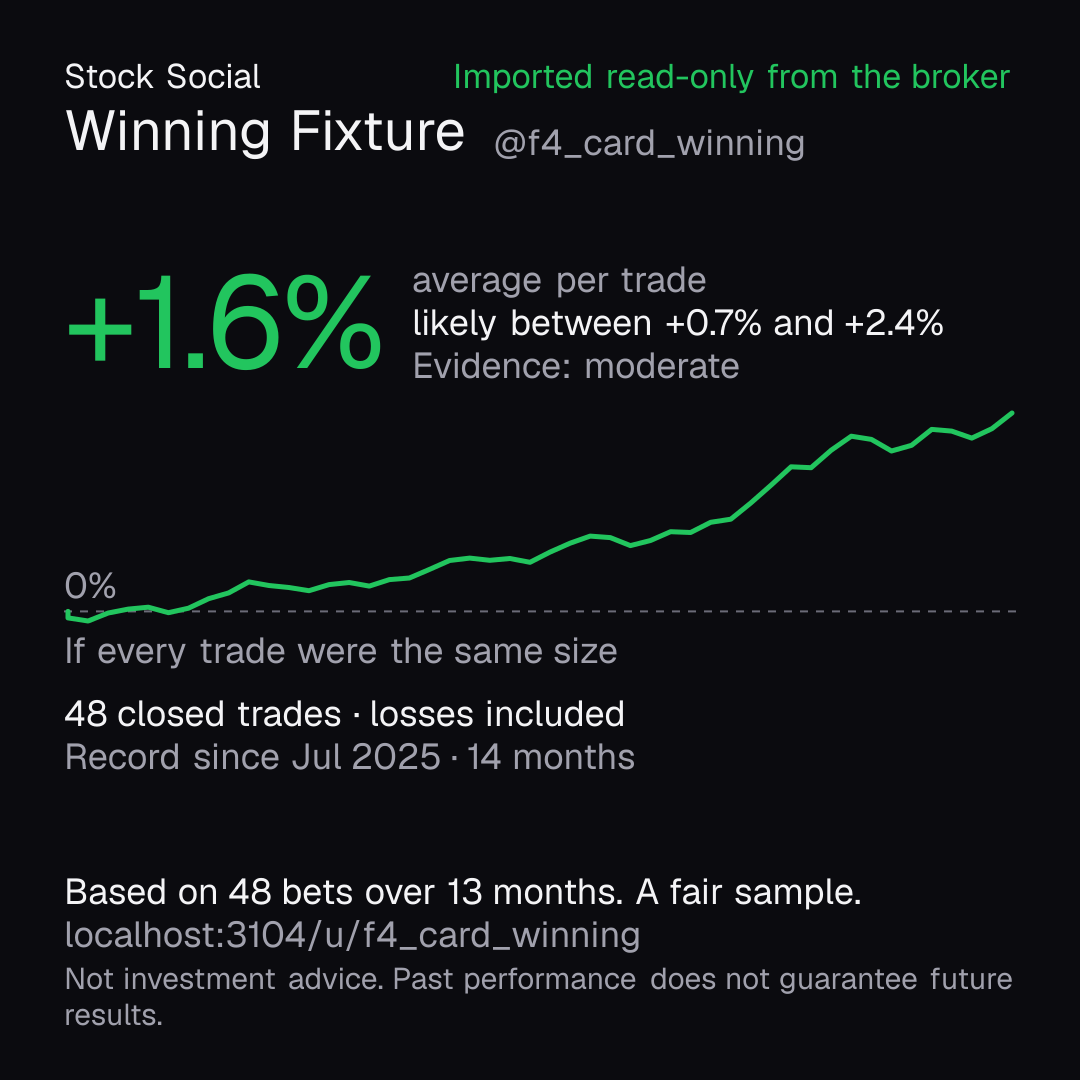
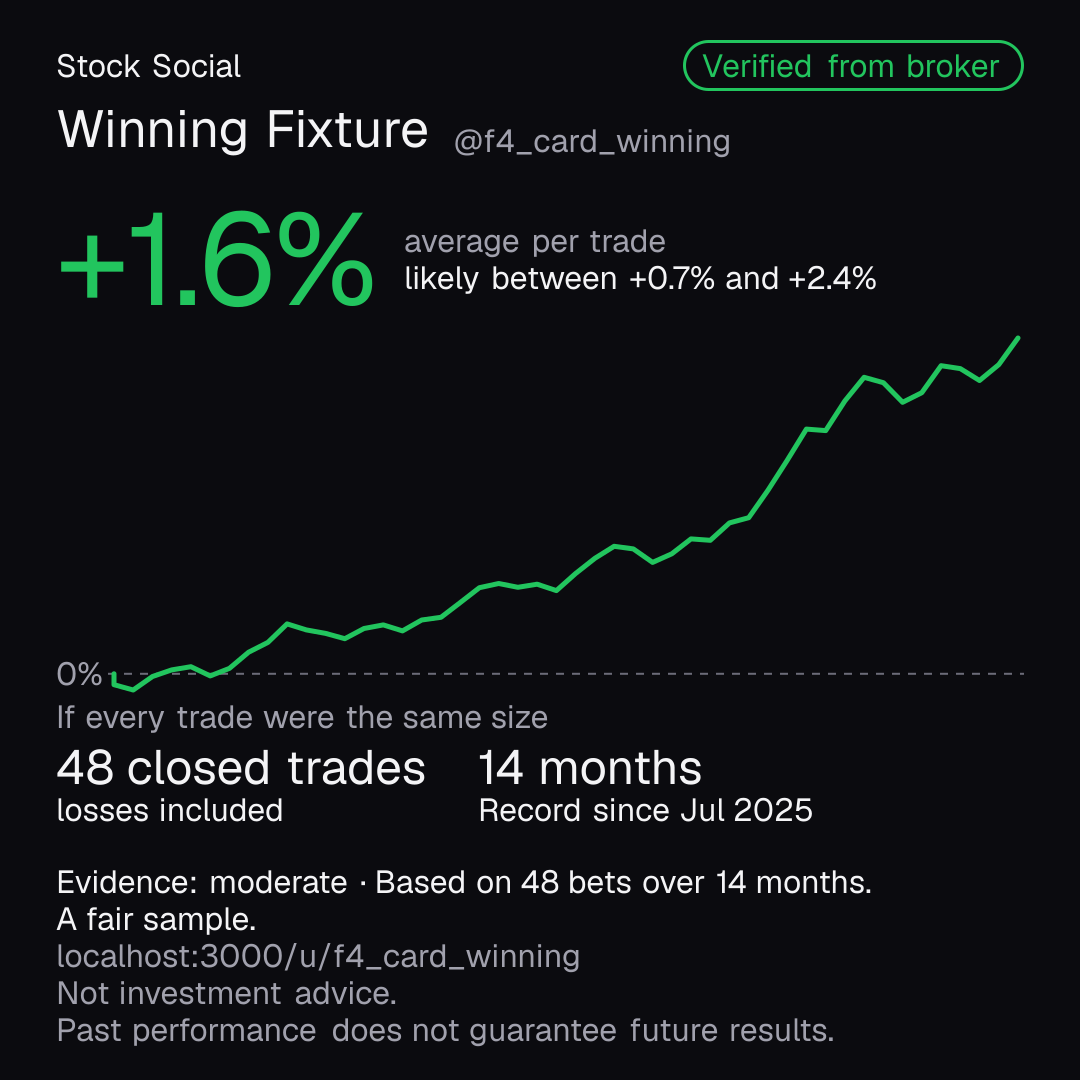
F-4 round 2: committee round 1 log and re-rendered screenshots (14 records)
Claude-Session: https://claude.ai/code/session_013YPFFnrKfniWPmfphtK7Ff

diff --git a/docs/features/logs/F-4/committee-round-1.md b/docs/features/logs/F-4/committee-round-1.md
@@ -1,0 +1,80 @@
+# F-4 · Committee round 1 · verdicts and the engineer's round 2
+
+Date: 2026-10-26. Build reviewed: `build-engineer.md` (commits f146057..ff41cfd). Both members returned the build:
+the business lead (**not passed**) and the UX lead (**not passed**). Their demands reached the engineer through the
+coordinator as one merged list (below, items 1 to 10, with the items held for the owner, A to C); this file
+summarises each demand faithfully and records what round 2 did. The coordinator pastes the members' verdicts into
+the PR. Nothing here changes a decision in the feature file.
+
+## Verdicts
+
+- **Business lead: not passed.** **UX lead: not passed.**
+- The engineer received the two verdicts as one merged list of demands from the coordinator, without the members'
+  own wording or which member raised which item, so this file does not attribute the demands; the coordinator adds
+  the verdict texts to the PR. In short: the card did not lead with what the owner chose (chart, count, period); it
+  missed the planned 10 CSS px floor (round 1 loosened it to 9.5 at 375 px); its two durations, its labels per size
+  and its alt text disagreed; "New record" was a grey suffix; the 0% label could sit under the line; the disclaimer
+  and trust line left orphans; ten states had never been rendered; the share picture printed the request's Host
+  header; the link-preview text printed "% win rate".
+
+## Demands and what round 2 did
+
+| # | Demand (summary) | Done | What changed, and the test |
+|---|---|---|---|
+| 1 | One duration per card: the period and the trust line give the same months/years from one span function (same end, same rounding); test the fixtures and spans of 29, 30, 31, 364, 365 days and a ~60-day demo-like record. | Done | `lib/confidence.ts`: `spanBetween(first entry, now)` (whole days, whole calendar months in UTC, years = months / 12) and `spanText(span, unit)`; the unit is the owner's per tier (thin days, moderate months, strong years; too early months). `recordCard` computes one span and both lines print `spanText` of it, so the period reads "Record since Aug 2026 · 61 days" beside "…over 61 days." Test R1 (11 records incl. 29/30/31/364/365/400/800 days and the demo-like 60-day record). Note for the owner: in the thin and strong tiers the period's unit follows the trust line (days / years), where AC1's example shows months. |
+| 2 | Readability floor 10 CSS px at 343 px wide for every element (0% label, body text); restore 10; reach it by deleting, not shrinking: evidence label into the trust line's row; the unfurl disclaimer may wrap. | Done | Every font in `CARD_LAYOUT` ≥ 10 CSS px at 343 px (unfurl 35 px, square/story 32 px; the 0% label is its own `zero` role). Deleted to make room: the separate evidence line (now "Evidence: thin · Based on …"), the brand word on the unfurl (the link preview names the site; the square/story pictures keep it), the grey "· New record" suffix. The disclaimer takes two lines. Test R2. |
+| 3 | Hierarchy: chart ≥ 30% of the card on every size (square ≥ 360 px tall, story ≥ 560 px); count and period at ≥ 1.5× body in the text colour; the average the one big number; layout test + re-render. | **Partly** | Square: 968×364 plot, 30.2% of the card. Story: 1080×580, edge to edge, 30.2%. Count and period at 1.5× body or more (53 / 48 / 52 px), text colour, each with its words under it ("48 closed trades / losses included", "14 months / Record since Jul 2025"). The average is the largest text on every size. **Unfurl: 556×322 = 23.7%, not 30%.** At 35 px minimum every required element (name, handle, badge, average, label, range, count, losses included, period, chart, caption, evidence + trust line on two lines, disclaimer on two lines) leaves at most about 363 px of height beside a text column that the range text needs at least 540 px wide for; 30% needs about 614×370. Reaching it needs one more deletion the committee or owner should choose (for example the chart caption, which waits on owner question A, or the handle, which AC1 requires). Test R3 pins square/story ≥ 30% and the unfurl at its measured floor (≥ 22%). |
+| 4 | The same trust label at every size: Verified on square and story too (read-only wording only where it is the F3a explanation); test identical labels in every state; Demo a visible badge at least as strong as Verified (outlined pill, non-grey), with "Demo data, not a real broker record" on the unfurl too. | Done | One rule at every size (`imageTrust('profile')`): "Verified from broker" everywhere; the old story-only label "Imported read-only from the broker" is no longer a label. The label is an outlined pill on every size: Verified green, Demo sky blue (`tone: 'demo'`), failed amber, not verified / importing grey. Demo reads "Demo data, not a real broker record" on all three sizes. Test R4 (4 states × demo × verified × empty, all sizes identical; demo tone). |
+| 5 | Render the missing states at unfurl, square and the 343/375 preview: 3 trades, 12 trades too wide, demo, not verified, failed import, importing, connected-but-empty, a 40-character name, a 3-digit month count, a 1-trade record. "New record" at least the count line's size in the text colour. The period never wraps. | Done | `e2e/share-card.spec.ts` now seeds 14 records (the 4 earlier + the 10 named) and renders each at unfurl, square and story, plus unfurl and square in a 343 px preview: 70 PNGs. "New record" is an outlined pill at the count line's size (53 / 48 / 52 px) in the text colour (unfurl: beside the trust badge; square/story: beside the name). The period's two parts are single short lines with `nowrap` ("under 1 month", "110 months"). When the badges crowd the name row the handle gives way first. Tests R5 and the e2e spec. |
+| 6 | Move the 0% label off the plot (left gutter or right end); test path min x ≥ label width + gap. | Done | The plot keeps a left gutter (`zeroGutter`: label width 1.5× its size + 10 px; the story's also holds the page margin since its plot runs edge to edge); the line starts at the gutter and the dashed baseline starts after the label. Test R6 (every size, winning/losing/one-trade). |
+| 7 | No orphans: break the square/story disclaimer after "advice."; the trust line never leaves a one-word last line. | Done | `disclaimerLines` breaks after "advice." on every size. `noOrphan` joins the trust row's last two words and binds every one- or two-letter word to the next ("A fair", "on 48 bets") with no-break spaces; the first re-render showed "…14 months. A / fair sample." and this fixed it. Test R7. |
+| 8 | Security: the share picture printed the request's Host header (`url.host`) on a publicly cacheable image; use the configured origin; test a request with `Host: evil.example`. | Done | `cardLink(env, handle)` uses `siteUrl` (NEXT_PUBLIC_SITE_URL, then the deploy's production URL, then localhost), the same origin the sitemap uses; the story route no longer reads `url.host`. Unit test R8; e2e: the square and story pictures requested with `Host: evil.example` are byte-identical to the plain request. |
+| 9 | Alt text: og:image:alt and the share prompt's preview alt (which always said "N verified trades") built from the same card model: label, name, average with range, gain or loss in words, count, period, trust line, disclaimer; test it contains each non-null model string for winning, losing, empty, demo, not-verified and no-broker, and never says "verified" unless the label does. | Done | `cardAlt(model)` in `lib/record-card.ts`; the profile's metadata and the share prompt both build it from `loadRecordCard` (the image's own read). Test R9 (8 cases, every drawn string present, "a gain" / "a loss", "verified" only with the label). Three e2e assertions that pinned the old one-line alt (`app.spec.ts` demo preview, `connect.spec.ts` importing and failed) now check the new alt's label, its absence of "verified" and its closing disclaimer. |
+| 10 | The unfurl text under the card printed "% win rate" with no wins; fix now, leave win rate in that text until the owner rules. | Done | `winRateText` in `lib/copy.ts` ("0% win rate"); `page.tsx` uses it. Test R10. |
+| A | Which series the chart plots and the caption wording. | Waits for the owner | Unchanged. |
+| B | Whether the range is built for the arithmetic mean so the headline always sits inside it. | Waits for the owner | Unchanged (the heavy fixture still reads "+0.3%, likely between +0.1% and +0.3%"). |
+| C | The trust table's negative rows and the under-5-bets wording. | Waits for the owner | Unchanged. |
+| — | A new font file; the ranking floor. | Not now / no change | No font added; ranking stays at 10 bets. |
+
+## Tests changed in round 2 (all written before the code)
+
+- `lib/record-card.test.ts`: the AC snapshots now carry the round-2 fields (`countValue`, `countNote`,
+  `periodSince`, `periodLength`) and the shared duration ("298 days" in both lines for the 12-bet thin fixture,
+  where round 1 printed "9 months" and "115 days"); AC8 expects the demo label on every size; AC9's floor is back to
+  10 CSS px at 375 (and R2 checks 10 at 343). New: R1 to R10 (10 tests; the suite went from 657 to 667).
+- `lib/story-image.test.ts`: the verified label on the square/story is "Verified from broker" (demand 4).
+- `e2e/share-card.spec.ts`: 14 records instead of 4; the preview at 343 px; the forged-Host test.
+- `e2e/app.spec.ts` (1 assertion), `e2e/connect.spec.ts` (2 assertions): the og:image:alt expectations follow
+  demand 9, each with more checks than before (label, no "verified", disclaimer).
+
+## Results (this worktree, Node 24.22.1)
+
+| Check | Result |
+|---|---|
+| `npx tsc --noEmit` | exit 0 |
+| `npm test` (`node --env-file=.env --test`) | 667 tests: 655 pass, 0 fail, 12 skipped |
+| `npm run build` | exit 0 |
+| `e2e/share-card.spec.ts` | 3 pass |
+| `e2e/app.spec.ts -g card` | 12 pass, 1 fail: the pre-existing heavy-feed test ("fix round 8, F-2 PR-1: 30-card pages…"), which fails the same way on the base commit 619ec80 (`build-engineer.md`) |
+| `e2e/app.spec.ts -g share` / `-g story` | 5 pass / 1 pass |
+| `e2e/app.spec.ts -g "fix round 6: the demo trader"` (alt) | 1 pass |
+| `e2e/connect.spec.ts:499`, `:621` (alt; vendor fake env per the spec header) | 2 pass |
+| `BASE_REF=main node scripts/compliance.ts auto` | 1 finding, not from this change: the installed `@img/sharp-wasm32` license (lockfile untouched) |
+| `node scripts/autopilot.ts guard main` | ok (after the round-2 commit) |
+
+`lib/trades.ts` did not change in round 2, so the load suite was not re-run (round 1: 5 pass).
+
+## Screenshots (`screenshots/`, re-rendered)
+
+14 records × `-unfurl.png`, `-square.png`, `-story.png`, `-unfurl-375.png`, `-square-375.png` (the last two: the
+image 343 px wide in a 375 px viewport): `winning`, `losing`, `empty` (no broker), `connected` (connected, no
+closes), `heavy` (4,200 trades), `three` (3 trades, too early, New record), `wide` (12 trades, range too wide),
+`demo`, `unverified`, `failed`, `importing`, `longname` (40 characters), `months` (110 months), `one` (1 trade).
+Looked at: every rendering shows its trust badge and both disclaimer lines; nothing overflows; the 0% label never
+touches the line; names ellipsize after the handle gives way.
+
+## Open after round 2
+
+1. Demand 3 on the unfurl (23.7% against 30%): needs a further deletion chosen by the committee or the owner.
+2. Owner questions A, B, C and the font, as the coordinator listed.
+3. The period line's unit follows the trust line's (days in thin, years in strong), where AC1's example reads months.
